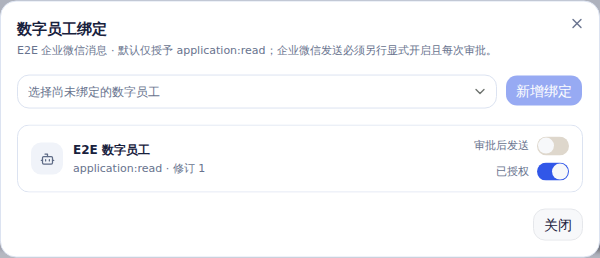
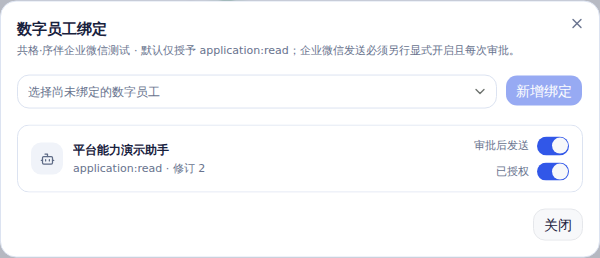
docs: add real wecom demo values and readable screenshots

diff --git a/frontend-enterprise/src/pages/ConnectionsPage.tsx b/frontend-enterprise/src/pages/ConnectionsPage.tsx
@@ -555,12 +555,12 @@ export default function ConnectionsPage({
       </section>
 
       <Dialog open={guideOpen} onOpenChange={setGuideOpen}>
-        <DialogContent aria-describedby={undefined} className="max-h-[88vh] gap-[18px] overflow-y-auto rounded-[18px] sm:max-w-[880px]">
+        <DialogContent aria-describedby={undefined} className="max-h-[92vh] w-[calc(100vw-32px)] gap-[22px] overflow-y-auto rounded-[18px] sm:max-w-[1180px]">
           <div className="flex items-start gap-[12px]">
             <span className="grid size-[42px] shrink-0 place-items-center rounded-[14px] bg-[#eaf0ff] text-[var(--gg-cobalt)]"><BookOpen className="size-[19px]" /></span>
             <div>
-              <DialogTitle className="text-[17px] font-semibold tracking-[-0.02em] text-[var(--gg-ink)]">企业微信连接：从创建到一次真实任务</DialogTitle>
-              <p className="mt-[4px] text-[12px] leading-[1.65] text-[var(--gg-slate)]">以下流程来自“序伴集成测试”真实联调，可按顺序完成应用建档、消息接入、数字员工绑定和最终回复验证。</p>
+              <DialogTitle className="text-[20px] font-semibold tracking-[-0.02em] text-[var(--gg-ink)]">企业微信连接：从创建到一次真实任务</DialogTitle>
+              <p className="mt-[5px] text-[13px] leading-[1.75] text-[var(--gg-slate)]">以下流程来自“共格·序伴企业微信测试”真实联调，可按顺序完成应用建档、消息接入、数字员工绑定和最终回复验证。</p>
             </div>
           </div>
 
@@ -618,6 +618,23 @@ export default function ConnectionsPage({
               </div>
             </div>
 
+            <div className="overflow-hidden rounded-[13px] border border-[#cbd8f4] bg-white" aria-label="当前 Demo 实际填写值">
+              <div className="border-b border-[#dce4f4] bg-[#f4f7ff] px-[15px] py-[11px]">
+                <h4 className="text-[13px] font-semibold text-[var(--gg-ink)]">当前 Demo：命令输出和实际填写值</h4>
+                <p className="mt-[3px] text-[11px] leading-[1.6] text-[var(--gg-slate)]">以下公网 IP 是 2026-08-11 在运行后端的同一台机器上用三个公网服务交叉核对的结果。</p>
+              </div>
+              <dl className="grid grid-cols-[190px_minmax(0,1fr)_minmax(0,1fr)] text-[12px] max-[760px]:grid-cols-1">
+                <DemoValueRow label="执行命令" value="curl -4 https://api.ipify.org" destination="在后端服务器终端执行" code />
+                <DemoValueRow label="本次命令输出" value="103.62.49.138" destination="这是企业微信 API 当前看到的公网出口" code strong />
+                <DemoValueRow label="企业可信 IP 填写" value="103.62.49.138" destination="企业微信应用 → 企业可信 IP" code strong />
+                <DemoValueRow label="本机内网地址" value="192.168.124.236" destination="仅用于内网访问，不能填入企业可信 IP" code />
+                <DemoValueRow label="真实成功回调 URL" value="https://people-elect-dolls-phones.trycloudflare.com/api/connectors/wecom/connprofile_36a56f3b292f49a8/callback" destination="企业微信应用 → 接收消息服务器 → URL；该临时 Tunnel 现已失效，仅作成功案例" code />
+                <DemoValueRow label="回调 Token" value="bbfca6••••••••••••••••••84c3f7" destination="从建档后的一次性弹窗完整复制；真实值不写入长期说明" code />
+                <DemoValueRow label="EncodingAESKey" value="hele5t7•••••••••••••••••••••bfRjAk" destination="从同一次弹窗完整复制，不能与另一轮 Token 混用" code />
+              </dl>
+              <p className="border-t border-[#e2e7f1] bg-[#fff9ec] px-[15px] py-[10px] text-[11px] leading-[1.65] text-[#76510b]">重要：公网 IP 可以按上表直接填写；旧 Tunnel URL 只说明成功时的完整格式，不能再次使用。Token 和 EncodingAESKey 是回调验签/解密密钥，截图中暴露过的值应轮换，页面只展示脱敏结果。新建连接时必须把一次性弹窗当场生成的完整值原样填入企业微信。</p>
+            </div>
+
             <div className="rounded-[12px] border border-[#cfdaf5] bg-white px-[13px] py-[12px]" aria-label="回调配置值生成规则">
               <h4 className="text-[12px] font-semibold text-[var(--gg-ink)]">URL、Token、EncodingAESKey 分别怎么生成</h4>
               <dl className="mt-[9px] grid gap-[8px] text-[11px] leading-[1.65] text-[#59647a]">
@@ -640,15 +657,15 @@ export default function ConnectionsPage({
             <GuideSectionTitle index="03" title="演示场景：让数字员工查询企业微信应用信息" id="connection-demo-title" />
             <div className="rounded-[12px] border border-[#cfe8d8] bg-white px-[13px] py-[12px]">
               <h4 className="text-[12px] font-semibold text-[var(--gg-ink)]">场景角色与接入方式</h4>
-              <ol className="mt-[9px] grid grid-cols-4 gap-[8px] max-[760px]:grid-cols-2 max-[480px]:grid-cols-1">
-                <ScenarioStep index="1" title="管理员">在“Agent 绑定”选择“序伴动态任务员工”，先授予 application:read；只有需要外发时才开启“审批后发送”。</ScenarioStep>
+              <ol className="mt-[10px] grid grid-cols-2 gap-[10px] max-[620px]:grid-cols-1">
+                <ScenarioStep index="1" title="管理员绑定真实数字员工">在连接卡片点击“Agent 绑定”，选择本次真实使用的“平台能力演示助手”。系统授予 application:read；本案例的“审批后发送”已经开启。</ScenarioStep>
                 <ScenarioStep index="2" title="消息路由">在“消息接入”选择同一个数字员工作为唯一接收路由，避免入口和工具权限指向不同 Agent。</ScenarioStep>
                 <ScenarioStep index="3" title="员工授权">企业微信成员首次发消息后，管理员在待授权发送者中选择其平台用户；原消息随后自动恢复。</ScenarioStep>
                 <ScenarioStep index="4" title="开始使用">员工继续在企业微信应用会话中用自然语言提问，不需要进入共格·序伴管理端。</ScenarioStep>
               </ol>
             </div>
 
-            <div className="grid grid-cols-2 gap-[10px] max-[680px]:grid-cols-1">
+            <div className="grid gap-[14px]">
               <GuideScreenshot
                 src={weComAgentBindingScreenshot}
                 alt="在真实数字员工绑定弹窗中授权企业微信连接"
@@ -662,7 +679,7 @@ export default function ConnectionsPage({
                 description="先指定接收消息的数字员工，再把已验签发送者映射到平台用户；系统不在页面展示原始 UserID 或正文。"
               />
             </div>
-            <p className="text-[10px] leading-[1.6] text-[#68776e]">截图来自真实生产构建的隔离自动化验收环境；其中“E2E 数字员工”对应本场景中的“序伴动态任务员工”，操作入口和权限契约与实际环境一致。点击截图可查看原始尺寸。</p>
+            <p className="text-[12px] leading-[1.7] text-[#68776e]">以上截图直接取自当前运行中的真实 Demo：连接“共格·序伴企业微信测试”绑定数字员工“平台能力演示助手”。点击任一截图可查看原始尺寸。</p>
 
             <div className="grid grid-cols-[minmax(0,0.75fr)_24px_minmax(0,1.25fr)] items-stretch gap-[8px] max-[680px]:grid-cols-1">
               <div className="rounded-[12px] bg-white px-[13px] py-[12px] shadow-[0_4px_14px_rgba(22,96,55,0.06)]">
@@ -922,11 +939,11 @@ function GuideFlowStep({ icon: Icon, label, value, onClick }: { icon: typeof Bot
   /** 用可点击的真实节点表达外部消息链路，并定位到对应操作指南。 */
 
   return (
-    <button type="button" onClick={onClick} aria-label={`查看${value}步骤`} className="group grid min-w-0 place-items-center gap-[5px] rounded-[11px] px-[5px] py-[7px] text-center transition-colors hover:bg-[#f1f5ff] focus-visible:outline-none focus-visible:ring-2 focus-visible:ring-[var(--gg-cobalt)] focus-visible:ring-offset-2">
+    <button type="button" onClick={onClick} aria-label={`查看${value}步骤`} className="group grid min-w-0 cursor-pointer place-items-center gap-[5px] rounded-[11px] border border-transparent px-[5px] py-[7px] text-center transition-colors hover:border-[#d7e1fb] hover:bg-[#f1f5ff] focus-visible:outline-none focus-visible:ring-2 focus-visible:ring-[var(--gg-cobalt)] focus-visible:ring-offset-2">
       <span className="grid size-[32px] place-items-center rounded-[11px] bg-[#edf2ff] text-[var(--gg-cobalt)]"><Icon className="size-[15px]" /></span>
       <small className="text-[9px] text-[#8a93a8]">{label}</small>
       <strong className="text-[11px] font-semibold text-[#3a4254]">{value}</strong>
-      <small className="text-[9px] font-medium text-[var(--gg-cobalt)] opacity-0 transition-opacity group-hover:opacity-100 group-focus-visible:opacity-100">查看步骤</small>
+      <small className="text-[10px] font-medium text-[var(--gg-cobalt)]">查看步骤 →</small>
     </button>
   );
 }
@@ -972,7 +989,7 @@ function GuideInstruction({ index, title, children }: { index: string; title: st
   return (
     <li className="grid grid-cols-[26px_1fr] gap-[10px] rounded-[11px] border border-[#e5e9f2] bg-white px-[11px] py-[10px]">
       <span className="grid size-[24px] place-items-center rounded-[8px] bg-[#edf2ff] font-mono text-[10px] font-semibold text-[var(--gg-cobalt)]">{index}</span>
-      <span><strong className="block text-[11px] font-semibold text-[#3a4254]">{title}</strong><span className="mt-[2px] block text-[11px] leading-[1.65] text-[var(--gg-slate)]">{children}</span></span>
+      <span><strong className="block text-[13px] font-semibold text-[#3a4254]">{title}</strong><span className="mt-[3px] block text-[12px] leading-[1.75] text-[var(--gg-slate)]">{children}</span></span>
     </li>
   );
 }
@@ -981,10 +998,10 @@ function ScenarioStep({ index, title, children }: { index: string; title: string
   /** 说明数字员工接入和实际使用场景中的一个责任阶段。 */
 
   return (
-    <li className="rounded-[10px] bg-[#f7faf8] px-[10px] py-[9px]">
-      <span className="font-mono text-[9px] font-semibold text-[#087a38]">STEP {index}</span>
-      <strong className="mt-[3px] block text-[11px] font-semibold text-[#34483b]">{title}</strong>
-      <span className="mt-[3px] block text-[10px] leading-[1.6] text-[#617267]">{children}</span>
+    <li className="rounded-[11px] bg-[#f4f9f6] px-[13px] py-[12px]">
+      <span className="font-mono text-[10px] font-semibold text-[#087a38]">STEP {index}</span>
+      <strong className="mt-[4px] block text-[13px] font-semibold text-[#34483b]">{title}</strong>
+      <span className="mt-[4px] block text-[12px] leading-[1.75] text-[#617267]">{children}</span>
     </li>
   );
 }
@@ -998,11 +1015,23 @@ function GuideScreenshot({ src, alt, title, description }: { src: string; alt: s
         <img src={src} alt={alt} className="h-auto w-full transition-transform duration-200 group-hover:scale-[1.015] motion-reduce:transition-none" />
       </a>
       <figcaption className="border-t border-[#e8ecf3] px-[11px] py-[9px]">
-        <strong className="block text-[11px] font-semibold text-[#3a4254]">{title}</strong>
-        <span className="mt-[2px] block text-[10px] leading-[1.55] text-[var(--gg-slate)]">{description}</span>
-        <span className="mt-[4px] block text-[9px] font-medium text-[var(--gg-cobalt)]">点击截图可查看原图</span>
+        <strong className="block text-[14px] font-semibold text-[#3a4254]">{title}</strong>
+        <span className="mt-[4px] block text-[12px] leading-[1.7] text-[var(--gg-slate)]">{description}</span>
+        <span className="mt-[6px] block text-[11px] font-medium text-[var(--gg-cobalt)]">点击截图可查看原图</span>
       </figcaption>
     </figure>
+  );
+}
+
+function DemoValueRow({ label, value, destination, code = false, strong = false }: { label: string; value: string; destination: string; code?: boolean; strong?: boolean }) {
+  /** 将真实联调命令、输出和填写位置按同一行呈现，避免用户自行推断。 */
+
+  return (
+    <div className="contents max-[760px]:block">
+      <dt className="border-b border-r border-[#e5e9f2] bg-[#fafbfe] px-[14px] py-[11px] font-medium text-[#586176] max-[760px]:border-r-0 max-[760px]:pb-[4px]">{label}</dt>
+      <dd className={cn('break-all border-b border-r border-[#e5e9f2] px-[14px] py-[11px] text-[#30384c] max-[760px]:border-r-0 max-[760px]:py-[5px]', code && 'font-mono', strong && 'font-semibold text-[#087a38]')}>{value}</dd>
+      <dd className="border-b border-[#e5e9f2] px-[14px] py-[11px] leading-[1.65] text-[#68738a] max-[760px]:pt-[5px]">{destination}</dd>
+    </div>
   );
 }
 
